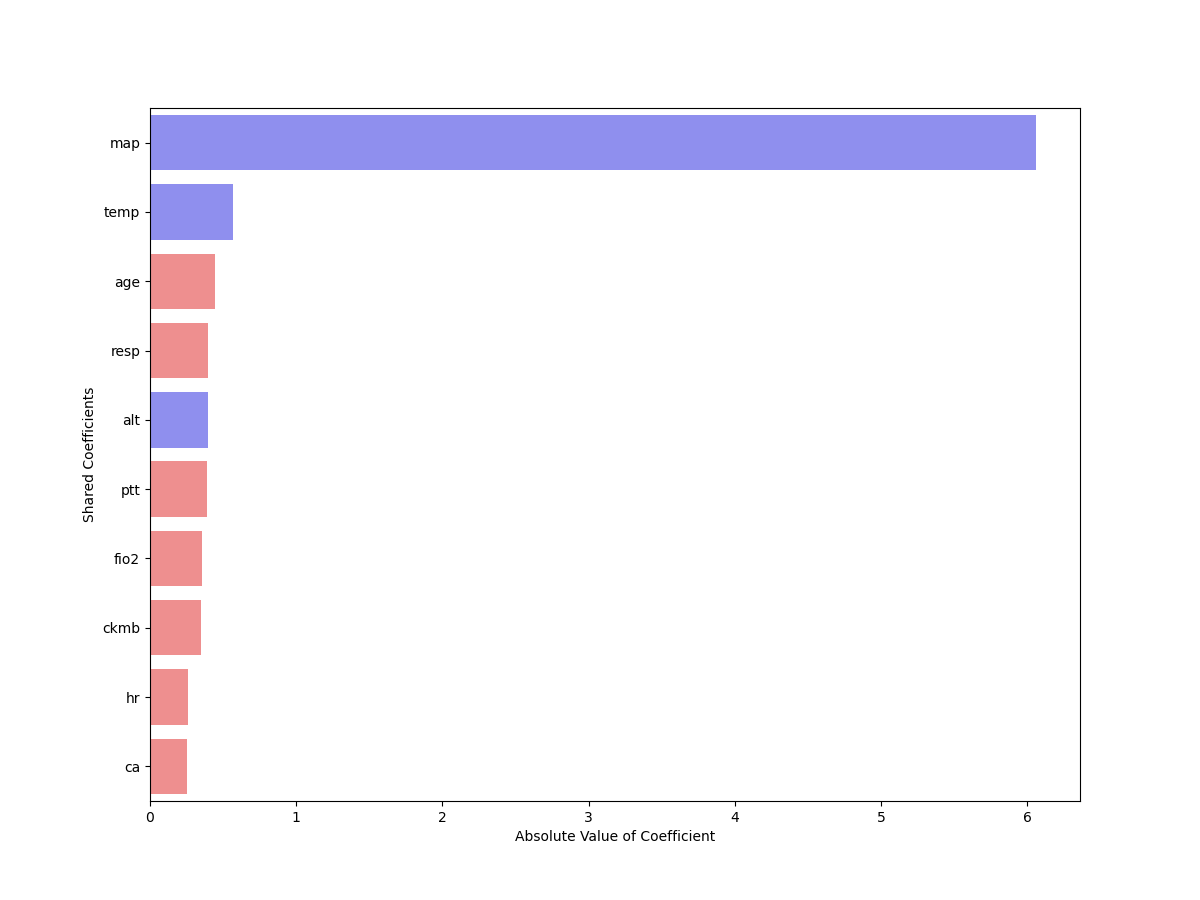
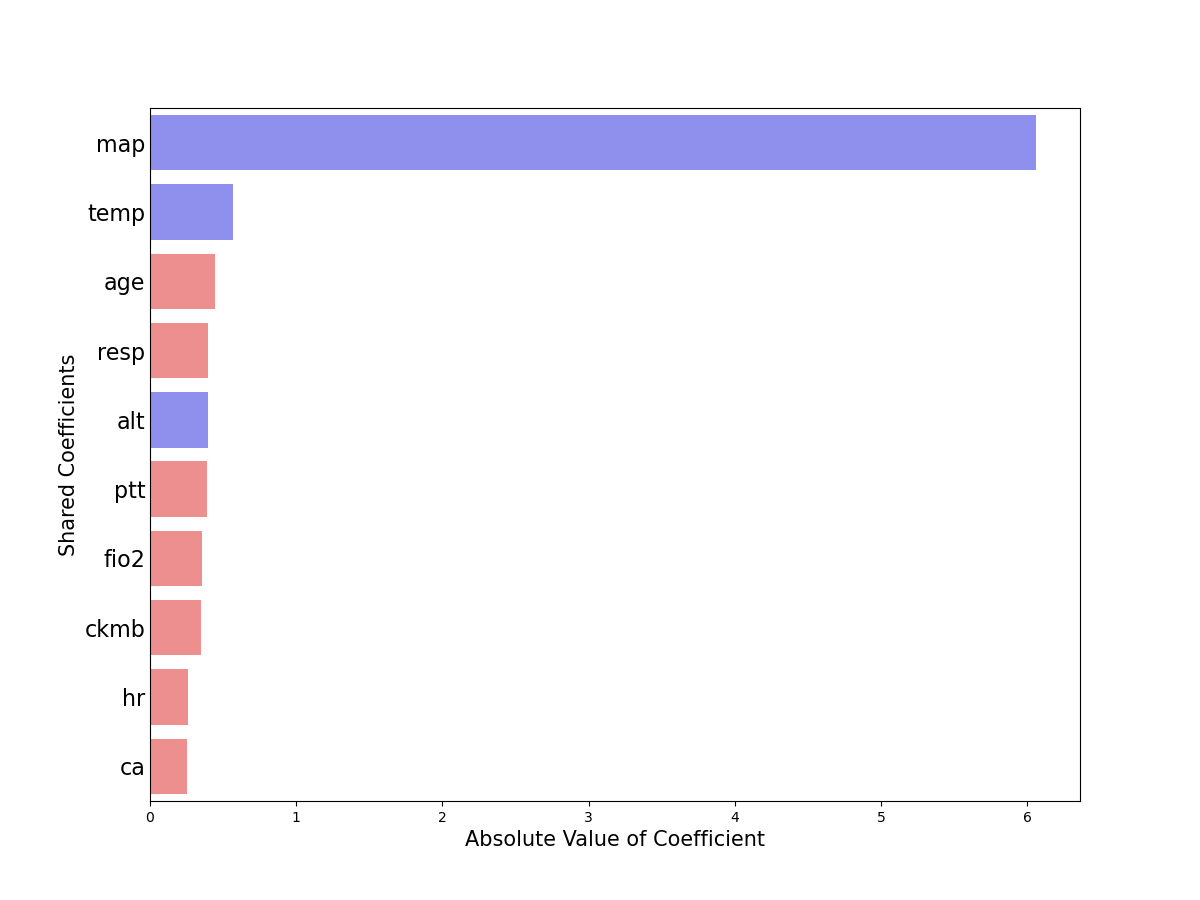
Change

diff --git a/Feature Selection/RF_coefs_barplot.py b/Feature Selection/RF_coefs_barplot.py
@@ -22,7 +22,7 @@ from preprocessing import make_feature_preprocessing
 from constants import CATEGORICAL_COLUMNS
 from icu_experiments.load_data import load_data_for_prediction
 
-outcome = 'map'
+outcome = 'hr'
 
 datasets = ['eicu', 'mimic', 'miiv', 'hirid']
 data = load_data_for_prediction(outcome=outcome)
@@ -52,9 +52,11 @@ for i, source in enumerate(['eicu', 'mimic', 'miiv', 'hirid']):
                                         'Feature Names': feature_names})
     feature_importances.sort_values(by='Importance', ascending=False, inplace=True)
     feature_importances = feature_importances.iloc[:10]
-    ax.set_title(source)
     sns.barplot(x=feature_importances['Importance'], y=feature_importances['Feature Names'], orient='h', ax=ax, alpha=0.7)
     ax.set_ylabel("")
+    ax.set_xlabel("Importance", fontsize=15)
+    ax.tick_params(axis='y', labelsize=16, size=0)  
+    ax.set_title(source, fontsize=16)
 plt.tight_layout()
 plt.savefig(f'images/barplots/{outcome}/RF_individual_feature_importances_{outcome}.png')
 plt.show()
@@ -73,7 +75,9 @@ feature_importances = pd.DataFrame({'Importance': model.feature_importances_,
 feature_importances.sort_values(by='Importance', ascending=False, inplace=True)
 feature_importances = feature_importances.iloc[:10]
 sns.barplot(x=feature_importances['Importance'], y=feature_importances['Feature Names'], orient='h', alpha=0.7)
+plt.xlabel("Importance", fontsize=15)
 plt.ylabel("")
+plt.tick_params(axis='y', labelsize=16, size=0)
 plt.tight_layout()
 plt.savefig(f'images/barplots/{outcome}/RF_all_feature_importances_{outcome}.png')
 plt.show()

diff --git a/Feature Selection/DSL_barplot.py b/Feature Selection/DSL_barplot.py
@@ -12,7 +12,7 @@ import pandas as pd
 import matplotlib.pyplot as plt
 import seaborn as sns
 
-outcome = 'map'
+outcome = 'hr'
 datasets = ['eicu', 'mimic', 'miiv', 'hirid']
 coefs = pd.read_parquet(f'parquet/{outcome}/dsl_coefs_{outcome}.parquet')
 
@@ -31,9 +31,10 @@ for i, source in enumerate(datasets):
         else: 
             color_palette.append('r')
     sns.barplot(x=source_coefs["abs_coefs"].iloc[:10], y=source_features[1].iloc[:10], hue=source_features[1].iloc[:10], orient="h", palette=color_palette[:10], legend=False, alpha=0.5, ax=ax)
-    ax.set_xlabel("Absolute Value of Coefficient")
+    ax.set_xlabel("Absolute Value of Coefficient", fontsize=15)
     ax.set_ylabel('')
-    ax.set_title(source)
+    ax.tick_params(axis='y', labelsize=16, size=0)  
+    ax.set_title(source, fontsize=16)
 plt.tight_layout()
 plt.savefig(f'images/barplots/{outcome}/DSL_individual_coefs_{outcome}.png')
 
@@ -49,7 +50,8 @@ for color_indice in shared_coefs['color']: # assign colour corresponding to the 
         color_palette.append('r')
 plt.figure(figsize=(12,9))
 sns.barplot(x=shared_coefs["abs_coefs"].iloc[:10], y=source_features[1].iloc[:10], hue=source_features[1].iloc[:10], orient="h", palette=color_palette[:10], legend=False, alpha=0.5)
-plt.ylabel('Shared Coefficients')
-plt.xlabel("Absolute Value of Coefficient")
+plt.ylabel('Shared Coefficients', fontsize=15)
+plt.tick_params(axis='y', labelsize=16, size=0)
+plt.xlabel("Absolute Value of Coefficient", fontsize=15)
 plt.savefig(f'images/barplots/{outcome}/DSL_shared_coefs_{outcome}.png')
 plt.show()

diff --git a/Feature Selection/DSL_profiles.py b/Feature Selection/DSL_profiles.py
@@ -108,11 +108,11 @@ print('common effects: ', feature_names)
 ax.plot(xx, coefs_shared.T)
 ymin, ymax = ax.get_ylim()
 ax.vlines(xx, ymin, ymax, linestyle="dashed", alpha=0.1)
-ax.set_xlabel("|coef| / max|coef|")
-ax.set_ylabel("Coefficients")
-ax.set_title(f"LASSO Path of shared coeffs in DSL")
+ax.set_xlabel("|coef| / max|coef|", fontsize=15)
+ax.set_ylabel("Coefficients", fontsize=15)
+ax.tick_params(axis='y', labelsize=13, size=0) 
+ax.tick_params(axis='x', labelsize=13, size=0)  
 ax.axis("tight")
-fig.suptitle(f"Target: {outcome}", fontweight='bold', fontsize=15)
 plt.tight_layout()  # Adjust the layout
 plt.savefig(f'images/lasso profiles/{outcome}/{outcome}_common_effects_DSL_preprocessed_individ.png')
 plt.show()
@@ -132,10 +132,12 @@ for i, source in enumerate(['eicu', 'mimic', 'miiv', 'hirid']):
     ax.plot(xx, _coefs.T)
     ymin, ymax = ax.get_ylim()
     ax.vlines(xx, ymin, ymax, linestyle="dashed", alpha=0.1)
-    ax.set_xlabel("|coef| / max|coef|")
-    ax.set_ylabel("Coefficients")
-    ax.set_title(f"LASSO Path of DSL on {source}")
+    ax.set_xlabel("|coef| / max|coef|", fontsize=15)
+    ax.set_ylabel("Coefficients", fontsize=15)
+    ax.tick_params(axis='y', labelsize=13, size=0) 
+    ax.tick_params(axis='x', labelsize=13, size=0)  
     ax.axis("tight")
+    ax.set_title(source, fontsize=16)
 fig.suptitle(f"Target: {outcome}", fontweight='bold', fontsize=15)
 plt.tight_layout()  # Adjust the layout
 plt.savefig(f'images/lasso profiles/{outcome}/{outcome}_individual_groups_DSL_preprocessed_individ.png')

diff --git a/Feature Selection/Pooled_Lasso_barplot.py b/Feature Selection/Pooled_Lasso_barplot.py
@@ -15,7 +15,7 @@ import seaborn as sns
 outcome = 'hr'
 datasets = ['eicu', 'mimic', 'miiv', 'hirid']
 
-coefs = pd.read_parquet(f'parquet/{outcome}/Pooled_Lasso_coefs.parquet')
+coefs = pd.read_parquet(f'parquet/{outcome}/Pooled_Lasso_coefs_{outcome}.parquet')
 features = coefs['feature names'].str.split(r'numeric__|categorical__sex_',expand=True)
 
 color_palette = []
@@ -27,8 +27,8 @@ for color_indice in coefs['color']: # assign colour corresponding to the color i
 
 plt.figure(figsize=(12,9))
 sns.barplot(x=coefs["abs_coefs"].iloc[:10], y=features[1].iloc[:10], hue=features[1].iloc[:10], orient="h", palette=color_palette[:10], legend=False, alpha=0.5)
-plt.title('Pooled Lasso')
 plt.ylabel('')
-plt.xlabel("Absolute Value of Coefficient")
+plt.tick_params(axis='y', labelsize=16, size=0)
+plt.xlabel("Absolute Value of Coefficient", fontsize=15)
 plt.savefig(f'images/barplots/{outcome}/Pooled_Lasso_coefs_{outcome}.png')
 plt.show()

diff --git a/Feature Selection/Individual_Lasso_barplots.py b/Feature Selection/Individual_Lasso_barplots.py
@@ -12,7 +12,7 @@ import pandas as pd
 import matplotlib.pyplot as plt
 import seaborn as sns
 
-outcome = 'map'
+outcome = 'hr'
 datasets = ['eicu', 'mimic', 'miiv', 'hirid']
 
 fig, axs = plt.subplots(2,2,figsize=(12,9))
@@ -28,9 +28,10 @@ for i, source in enumerate(datasets):
         else: 
             color_palette.append('r')
     sns.barplot(x=coefs["abs_coefs"].iloc[:10], y=features[1].iloc[:10], hue=features[1].iloc[:10], orient="h", palette=color_palette[:10], legend=False, alpha=0.5, ax=ax)
-    ax.set_xlabel("Absolute Value of Coefficient")
+    ax.set_xlabel("Absolute Value of Coefficient", fontsize=15)
     ax.set_ylabel('')
-    ax.set_title(source)
+    ax.tick_params(axis='y', labelsize=16, size=0)  
+    ax.set_title(source, fontsize=16)
 plt.tight_layout()
 plt.savefig(f'images/barplots/{outcome}/Individual_Lasso_coefs_{outcome}.png')
 plt.show()

diff --git a/Feature Selection/Lasso_profiles.py b/Feature Selection/Lasso_profiles.py
@@ -62,9 +62,11 @@ for i, source in enumerate(['eicu', 'mimic', 'miiv', 'hirid', 'all']):
     ax.plot(xx, coefs.T)
     ymin, ymax = ax.get_ylim()
     ax.vlines(xx, ymin, ymax, linestyle="dashed", alpha=0.1)
-    ax.set_xlabel("|coef| / max|coef|")
-    ax.set_ylabel("Coefficients")
-    ax.set_title(f"LASSO Path - {source}")
+    ax.set_xlabel("|coef| / max|coef|", fontsize=15)
+    ax.set_ylabel("Coefficients", fontsize=15)
+    ax.set_title(source, fontsize=16)
+    ax.tick_params(axis='y', labelsize=13, size=0) 
+    ax.tick_params(axis='x', labelsize=13, size=0) 
     ax.axis("tight")
     
     # Identify the indices of the four largest coefficients
